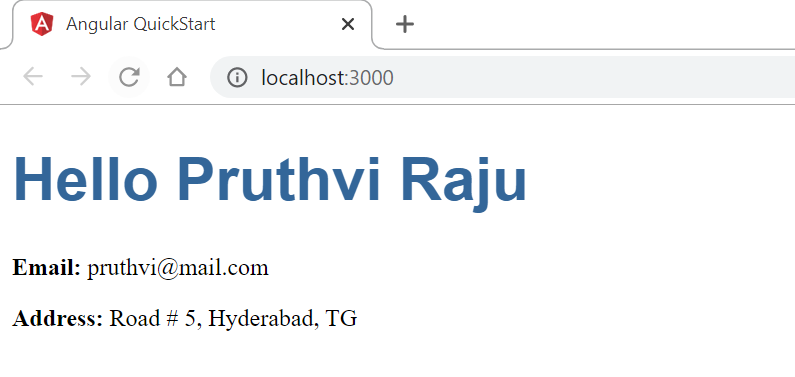
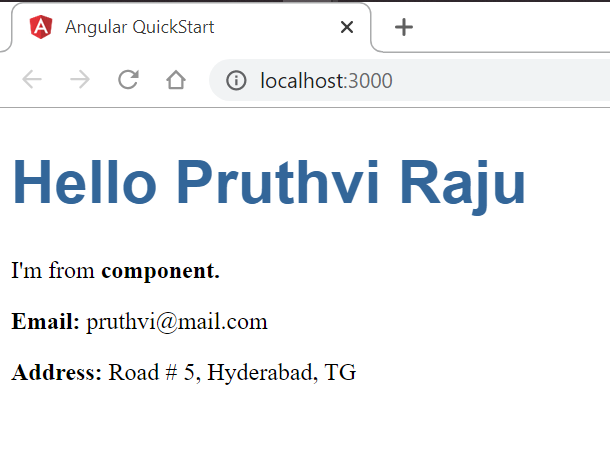
Moved component from app.module to components\user.component

diff --git a/angular2/001-angular2quickstart/src/app/components/user.component.ts b/angular2/001-angular2quickstart/src/app/components/user.component.ts
@@ -1,0 +1,21 @@
+import { Component } from '@angular/core';
+
+@Component({
+  selector: 'user',
+  template: `
+  <h1>Hello {{name}}</h1>
+  <p>I'm from <strong>component.</strong></p>
+  <p><strong>Email:</strong> {{email}}</p>
+  <p><strong>Address:</strong> {{address.street}}, {{address.city}}, {{address.state}}</p>
+  `,
+})
+
+export class UserComponent  { 
+  name = 'Pruthvi Raju';
+  email = 'pruthvi@mail.com';
+  address = {
+    street: 'Road # 5',
+    city: 'Hyderabad',
+    state: 'TG'
+  }
+}

diff --git a/angular2/001-angular2quickstart/src/app/app.component.ts b/angular2/001-angular2quickstart/src/app/app.component.ts
@@ -3,17 +3,7 @@ import { Component } from '@angular/core';
 @Component({
   selector: 'my-app',
   template: `
-  <h1>Hello {{name}}</h1>
-  <p><strong>Email:</strong> {{email}}</p>
-  <p><strong>Address:</strong> {{address.street}}, {{address.city}}, {{address.state}}</p>
+ <user></user>
   `,
 })
-export class AppComponent  { 
-  name = 'Pruthvi Raju';
-  email = 'pruthvi@mail.com';
-  address = {
-    street: 'Road # 5',
-    city: 'Hyderabad',
-    state: 'TG'
-  }
-}
+export class AppComponent  { }

diff --git a/angular2/001-angular2quickstart/src/app/app.module.ts b/angular2/001-angular2quickstart/src/app/app.module.ts
@@ -2,10 +2,11 @@ import { NgModule }      from '@angular/core';
 import { BrowserModule } from '@angular/platform-browser';
 
 import { AppComponent }  from './app.component';
+import { UserComponent }  from './components/user.component';
 
 @NgModule({
   imports:      [ BrowserModule ],
-  declarations: [ AppComponent ],
+  declarations: [ AppComponent, UserComponent ],
   bootstrap:    [ AppComponent ]
 })
 export class AppModule { }
